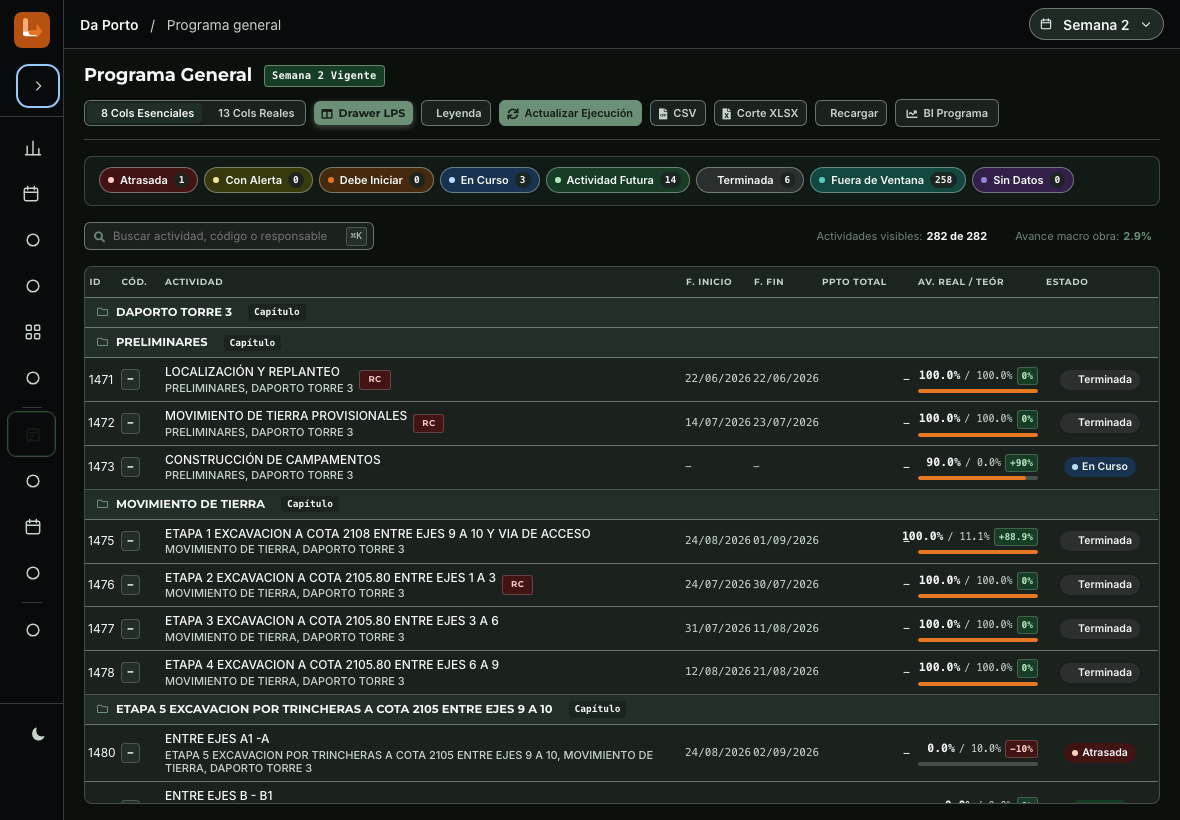
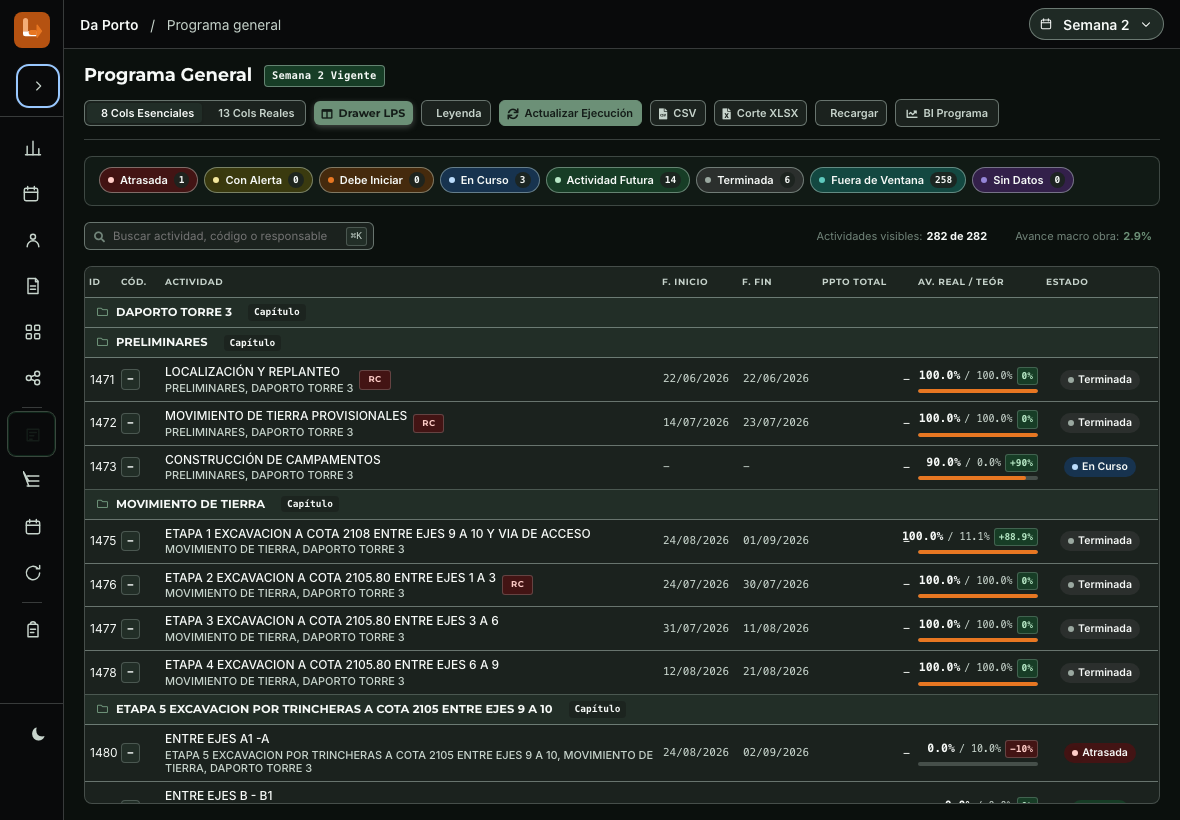
docs(s05): record round 3 verification and fresh captures

diff --git a/docs/superpowers/plans/2026-09-24-s05-ronda-1-2-informe.md b/docs/superpowers/plans/2026-09-24-s05-ronda-1-2-informe.md
@@ -4,7 +4,7 @@ tipo: plan
 areas: [proceso]
 fuente: docs/superpowers/plans/2026-09-24-s05-ronda-1-2-informe.md
 resumen: Informe de sprint S05 ronda 1.2
-fecha: 2026-09-25
+fecha: 2026-09-26
 sprint: S05 ronda 1.2
 ejecutor: codex
 rama: codex/s05-ronda-1-2
@@ -49,22 +49,24 @@ estado: abierto
 
 ## Verificación local
 
+Resultados de la corrección del 26 de septiembre sobre `ad01da321af32e619905bb70f6d5a32c6a50aff1`.
+
 | Comando o gate | Resultado |
 | --- | --- |
 | `npm --prefix frontend run typecheck` | RC 0 |
-| `npm --prefix frontend run test` | RC 0 · 73 archivos, 941 pruebas |
+| `npm --prefix frontend run test` | RC 0 · 73 archivos, 942 pruebas |
 | `npm run test:design-system:static` | RC 0 · ocho secciones |
 | `npm --prefix frontend run build` | RC 0 |
 | `npm run css:minify:check` | RC 0 |
 | `docker compose exec -T app php scripts/run-php-tests.php --nivel=http` en stack CI aislado | RC 0 · 117 seleccionadas, 115 aprobadas, 2 omisiones propias; PHPUnit 299 pruebas, 752 aserciones |
 | `docker compose exec -T app vendor/bin/phpstan analyse src admin/src --memory-limit=1G` en stack CI aislado | RC 0 · 221 rutas, cero errores |
-| Playwright PG, shell, visualizador y runtime a11y | RC 0 · 32/32 |
+| Playwright PG, shell, visualizador y runtime a11y | RC 0 · 34/34; incluye ocho casos de layout y dos del punto Terminada |
 | `npm run test:a11y:pilot` | RC 0 · 2/2 |
 | `npm run test:hue:pilot` | RC 0 · 1/1 |
 | E2E `pg-interactions.spec.mjs` en stack CI aislado | RC 0 · 4/4, restauración verificada |
-| `full-app-flow.spec.mjs` en stack CI aislado | RC 0 · 30/30; cada escenario emitió recibo de restauración de base y archivos |
-| `npm run test:runtime-budget:measure` y `npm run test:runtime-budget:check` | RC 0 ambos · tres muestras ligadas a `c68330f6`; CSS gzip 128963 B, JS gzip 134709 B, solicitudes duplicadas 0, flashes 0, inicialización 320,4 ms, interacción 135,5 ms; baseline 0.5.0 → medición 1.1.0 |
-| `programa-general.visual.mjs` contra referencias previas | RC 1 esperado · 78187 px distintos a 1180×820 y 86953 px a 1440×900; referencia nueva sin aprobación |
+| `full-app-flow.spec.mjs` en stack CI aislado | RC 0 · 30/30; treinta recibos con huellas de base y archivos idénticas antes/después |
+| `npm run test:runtime-budget:measure` y comprobación con `design-system-runtime-budget.mjs check` | RC 0 ambos · tres muestras ligadas a `ad01da32`; CSS gzip 128965 B, JS gzip 135001 B, solicitudes duplicadas 0, flashes 0, inicialización 134,6 ms, interacción 242,6 ms; baseline 0.5.0 → medición 1.1.0 |
+| `programa-general.visual.mjs` contra referencias previas | RC 1 · 77847 px distintos a 1180×820 y 86644 px a 1440×900; gate visual pendiente del visto, referencias intactas |
 | `npm run test:wiki` | RC 1 · sus pruebas unitarias pasaron; el lint estricto detecta 14 metadatos inválidos en cuatro documentos ajenos a esta ronda y en el propio plan sellado. El informe nuevo ya pasó su validación de frontmatter. No se alteraron esos contratos. |
 
 La suite PHP y los E2E de mutación se ejecutaron sobre base CI aislada. No se alteraron datos de la base de desarrollo compartida en esta reanudación.
@@ -73,7 +75,17 @@ La suite PHP y los E2E de mutación se ejecutaron sobre base CI aislada. No se a
 
 Se recorrieron `/programa-general` y `/app/programa-general`, en claro y oscuro y con riel colapsado y expandido: **8/8 combinaciones** a 1180×820 sin desbordamiento horizontal del documento, con el chip de semana visible. Son las rutas que montan `AppShell` en `frontend/src/shell/rutas.tsx`; las demás rutas de ese archivo son acceso o selección de proyecto.
 
-Las catorce capturas finales de `docs/superpowers/evidence/s05-ronda-1-2/` cubren, en ambos temas: ocho columnas, trece columnas, última fila, riel colapsado, riel expandido, menú de semana y Drawer. Se regeneraron tras el último cambio de código `c68330f6`; las diferencias con la tanda anterior son de 6 a 457 píxeles por imagen.
+Las catorce capturas finales de `docs/superpowers/evidence/s05-ronda-1-2/` cubren, en ambos temas: ocho columnas, trece columnas, última fila, riel colapsado, riel expandido, menú de semana y Drawer. Se regeneraron tras el último cambio de código `ad01da321af32e619905bb70f6d5a32c6a50aff1`. Las dos rutas React volvieron a pasar sus ocho combinaciones, sin errores JavaScript.
+
+## Corrección de la ronda 3 · 26 de septiembre
+
+- Se añadió el glifo SVG exacto del legado para `user`, `contract`, `integration`, `tasks`, `sync` y `clipboard`. La prueba unitaria dio RED con el círculo de respaldo en Profesionales y GREEN con el glifo propio. La prueba de navegador también dio RED con el build anterior y GREEN 4/4: compara por destino la ruta, el nombre y cada elemento/atributo SVG contra el legado vivo, y rechaza el respaldo genérico.
+- Las fechas tienen columnas de 5 rem y padding horizontal real de 5 px. Se redistribuyeron 24 px de columnas auxiliares para conservar Actividad con al menos 160 px en 13 columnas y riel abierto. La matriz de ocho casos verifica cero overflow, cero recortes, Actividad ≥280/160 px y separación entre textos de fecha vecinos ≥8 px; en 13 columnas mide Inicio→Sem→Fin, en 8 Inicio→Fin. La primera ampliación de fechas produjo RED por Actividad de 139 px; tras redistribuir, GREEN 8/8.
+- Terminada usaba el token inexistente `--ds-text-muted`; ahora usa el neutral canónico `--ds-state-solid-neutral` en señal y Estado. Prueba unitaria RED/GREEN y prueba de navegador GREEN 2/2 con puntos de tamaño positivo y color opaco en ambos temas.
[1 lines of base64/hex data omitted]
+- El mismo manifiesto enumera las catorce capturas vivas, con SHA-256, fecha de captura y `sourceRef`; sus archivos en el repo se compararon con las salidas originales de la captura antes de registrar la huella.
+- La revisión independiente de código no encontró otros hallazgos. Su hallazgo sobre evidencia antigua quedó resuelto tras comprobar el manifiesto, assets y ambas candidatas, más 13 columnas: glifos propios, fechas separadas y puntos Terminada visibles. Veredicto final de esta corrección: sin hallazgos accionables; aprobación de referencias pendiente.
+- Docker Desktop se recuperó mediante su comando de reinicio tras un error de arranque. Para las capturas vivas se montó temporalmente el `.env` local de solo lectura: el enlace absoluto del worktree no se resolvía dentro del contenedor. Se devolvió el montaje de `app` a la raíz compartida y se retiró ese bind temporal. Los E2E de mutación usaron exclusivamente la base CI aislada.
 
 ## Revisión y pendientes
 
@@ -82,7 +94,7 @@ Las catorce capturas finales de `docs/superpowers/evidence/s05-ronda-1-2/` cubre
 - Revisión adicional del selector de semana para runtime y de la deduplicación CSS: «sin hallazgos».
 - Revisión independiente de seguridad: se amplió la prueba a la negación real del lote y a restauración en `finally`; último veredicto sin hallazgos accionables.
 - El lint de wiki estricto queda rojo por metadatos anteriores a este informe en planes y specs fuera del alcance. Cambiar el frontmatter del plan S05 sellado invalidaría su huella; se deja registrado para el cierre con Felipe.
-- **BLOCKED · tarea 9:** Felipe rechazó las capturas iniciales. Las seis imágenes de referencia, candidata y diferencia en dos tamaños están en `docs/superpowers/evidence/s05-ronda-1-2/goldens-candidatas/`, regeneradas desde `c68330f6`. Se solicitó un nuevo visto sobre las candidatas posteriores a R1.2-5. Hasta obtenerlo, no se modifican los goldens ni se considera verde el gate visual.
+- **BLOCKED · tarea 9:** Felipe rechazó las tandas anteriores, de nuevo el 26 de septiembre. Las seis imágenes de referencia, candidata y diferencia en dos tamaños están en `docs/superpowers/evidence/s05-ronda-1-2/goldens-candidatas/`, regeneradas desde `ad01da32`, junto con manifiesto y comparación HTML. Hasta obtener un visto explícito sobre esta tanda, no se modifican los goldens ni se considera verde el gate visual.
 - No se hizo push, merge a `main` ni despliegue, según el alcance aprobado del sprint.
 
 ## Condición de hecho para un PR futuro
